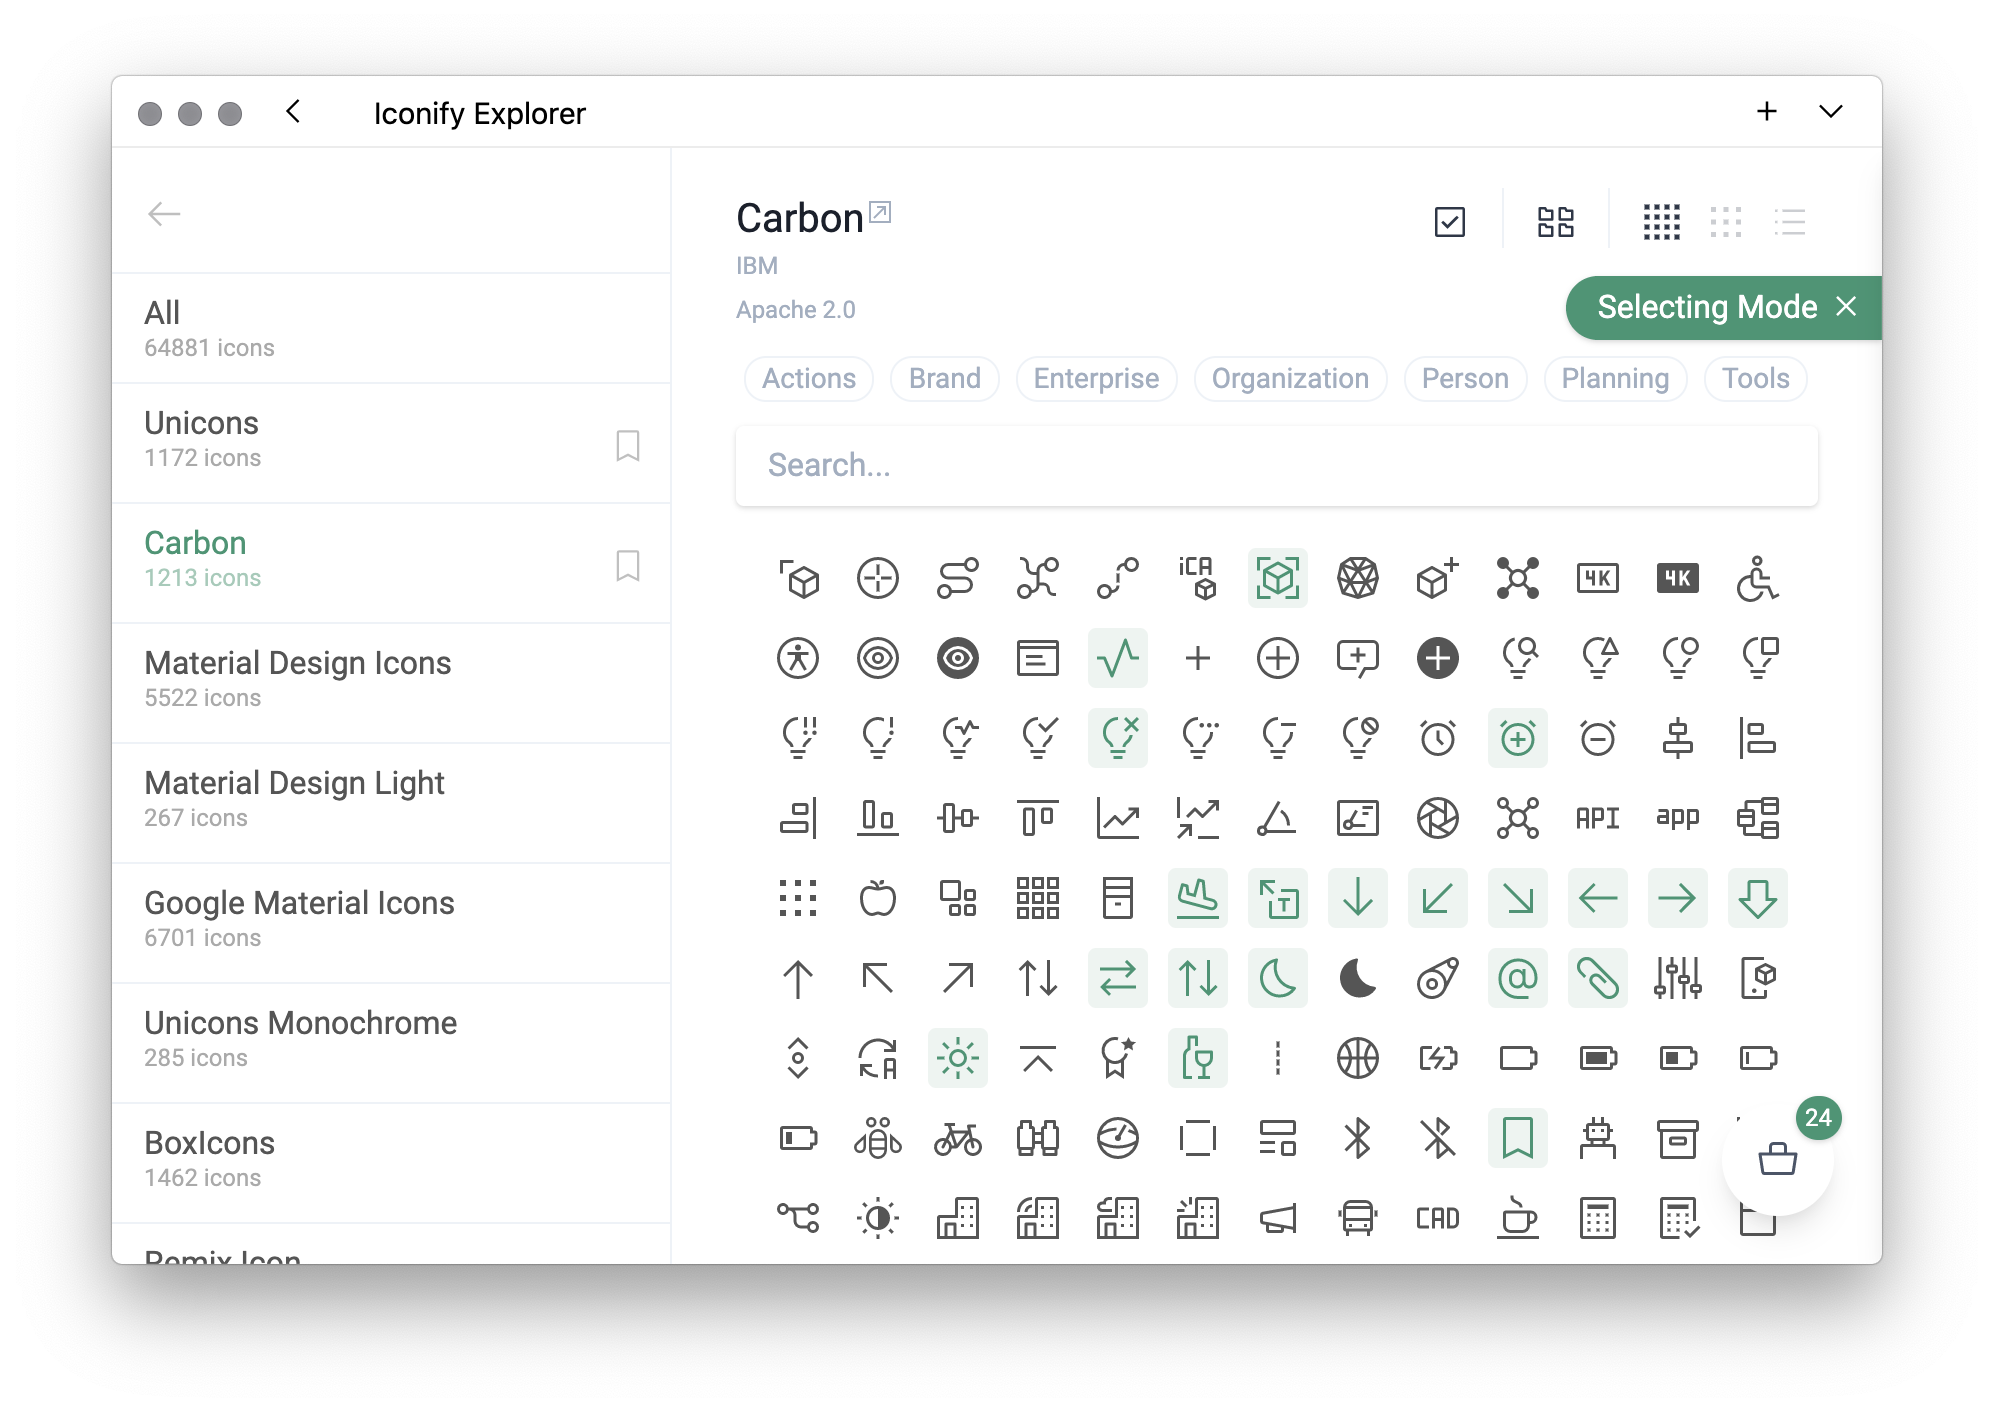
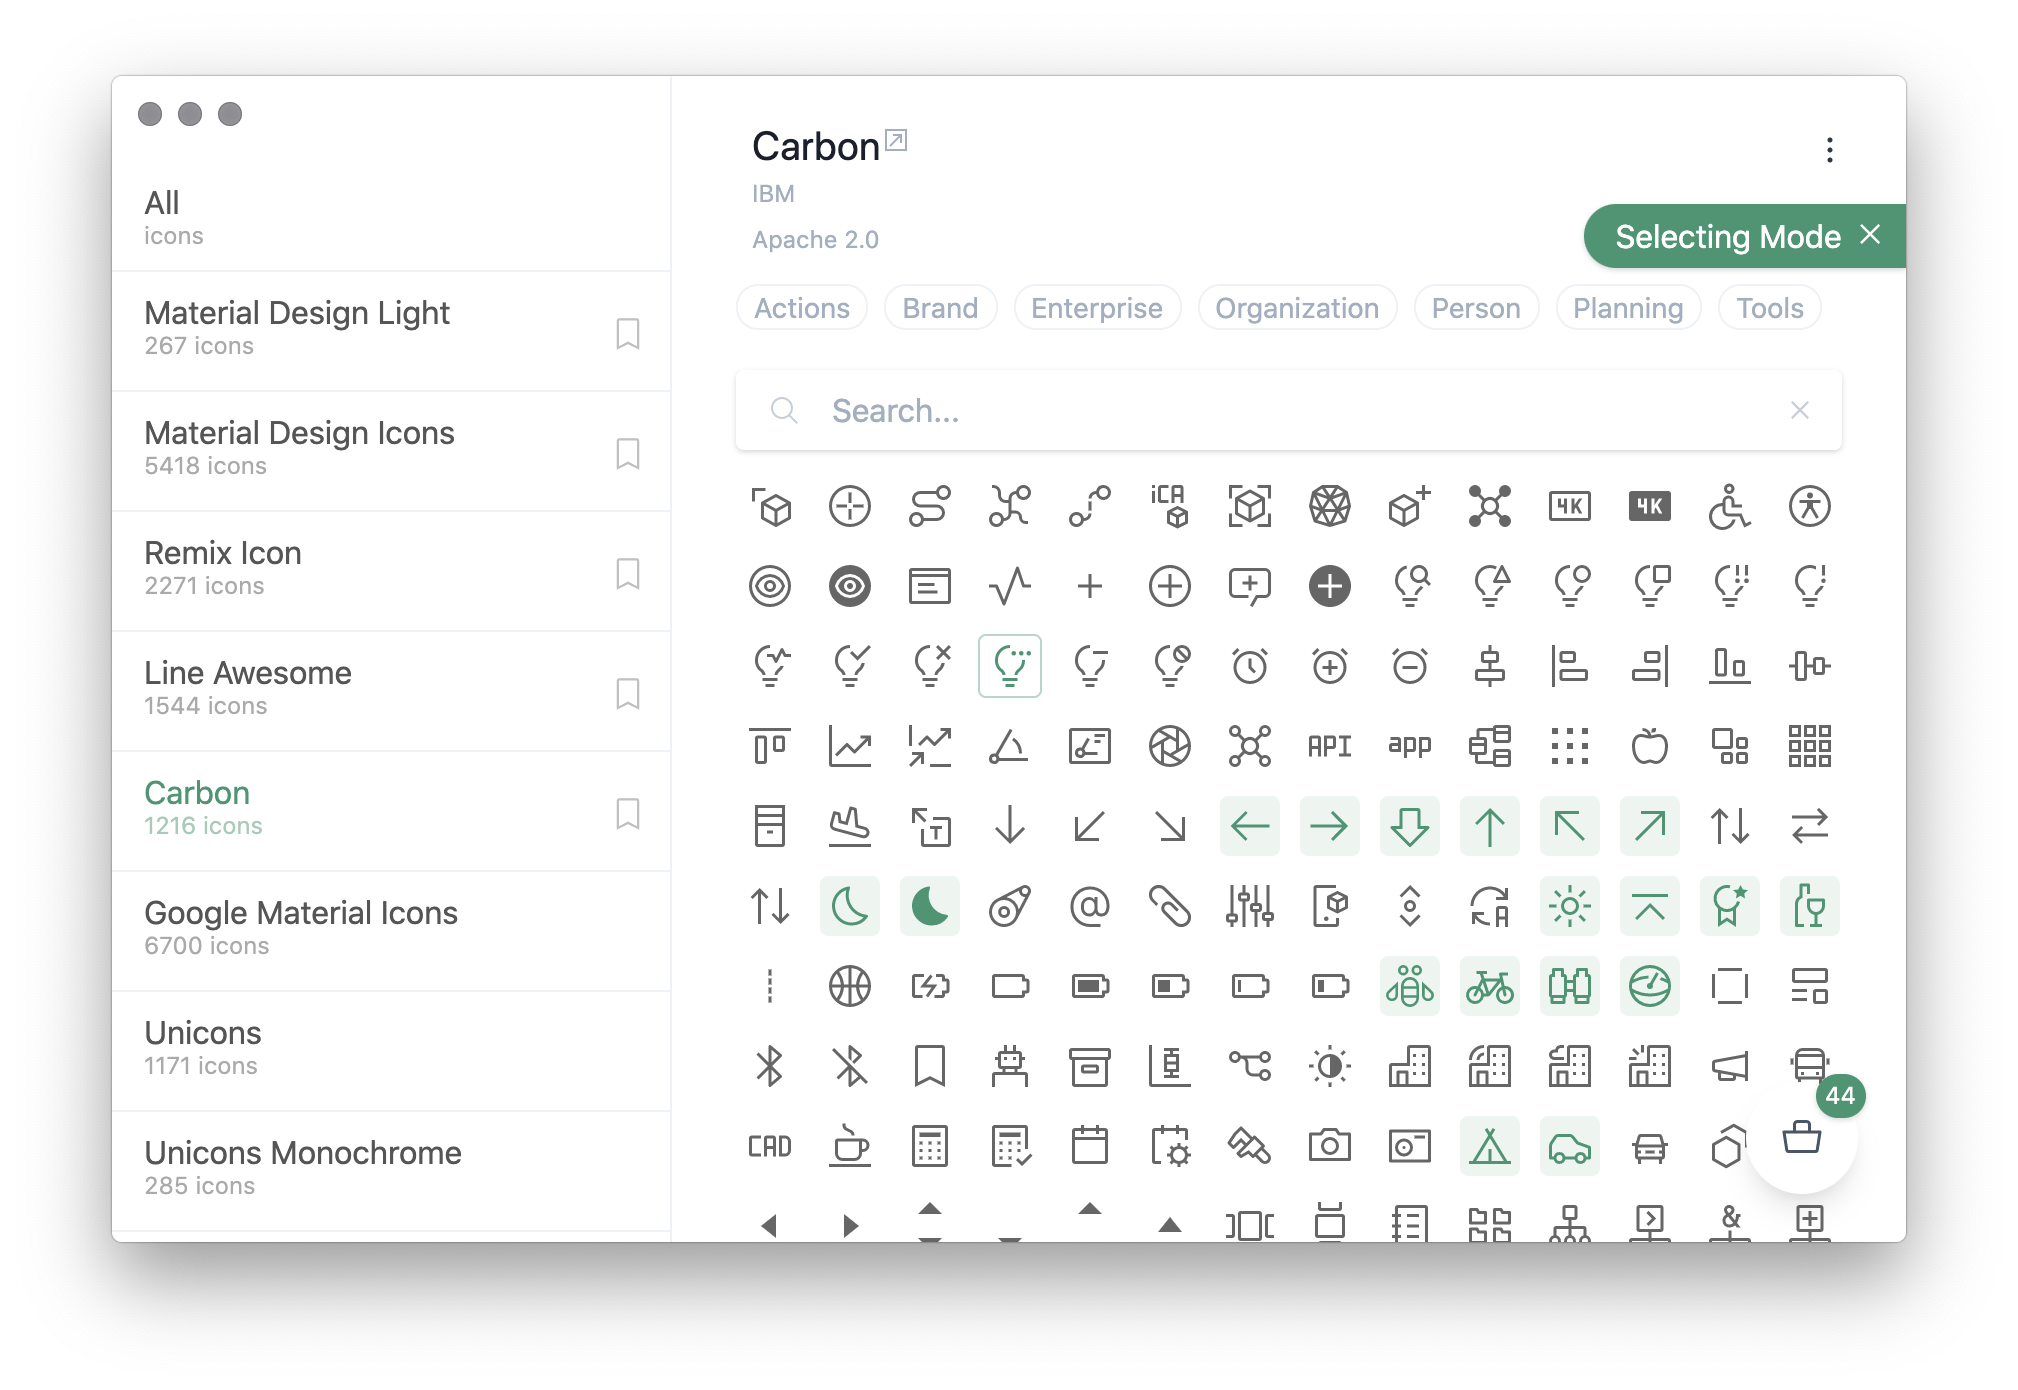
chore: renamed to Icônes

diff --git a/src/views/IconSet.vue b/src/views/IconSet.vue
@@ -65,7 +65,7 @@
         </div>
 
         <!-- Searching -->
-        <div class="mx-8 mt-2 text-gray-500 hidden md:flex shadow rounded outline-none py-1 px-4">
+        <div class="mx-8 my-2 text-gray-500 hidden md:flex shadow rounded outline-none py-1 px-4">
           <Icon icon="carbon:search" class="m-auto flex-none opacity-60" />
           <input
             ref="input"
@@ -73,7 +73,7 @@
             class="text-base outline-none py-1 px-4 flex-auto m-0"
             :placeholder="`Search...`"
           >
-          <Icon icon="carbon:close" class="m-auto text-lg -mr-1 opacity-60" @click="search = ''" />
+          <Icon v-if="search" icon="carbon:close" class="m-auto text-lg -mr-1 opacity-60" @click="search = ''" />
         </div>
 
         <!-- Icons -->

diff --git a/src/components/Navbar.vue b/src/components/Navbar.vue
@@ -19,8 +19,8 @@
       >
         <IconButton icon="carbon:logo-github" />
       </div>
-      <h1 class="text-base font-light py-2 m-auto flex-auto text-center">
-        <a href="https://iconify.design" target="_blank" class="font-bold">Iconify</a>Explorer
+      <h1 class="text-xl py-1 m-auto flex-auto text-center font-light" style="letter-spacing: 2px">
+        Icônes
       </h1>
       <a
         class="non-dragging text-xl mx-3 mr-4 my-auto flex-none"

diff --git a/src/views/Index.vue b/src/views/Index.vue
@@ -1,6 +1,8 @@
 <template>
   <WithNavbar>
-    <NavPlaceholder />
+    <NavPlaceholder class="md:border-b border-gray-200 text-center m-auto flex text-gray-500 font-light" style="height:40px">
+      <div class="m-auto">Collections</div>
+    </NavPlaceholder>
     <div class="collections-list grid">
       <div
         v-for="collection in collections"

diff --git a/index.html b/index.html
@@ -3,7 +3,7 @@
   <head>
     <meta charset="UTF-8" />
     <meta name="viewport" content="width=device-width, initial-scale=1.0">
-    <title>Iconify Explorer</title>
+    <title>Icônes</title>
     <script src="/lib/iconify.min.js"></script>
     <script src="/lib/svg-packer.js" defer></script>
     <script src="/lib/jszip.min.js" defer></script>

diff --git a/src/components/electron/SearchElectron.vue b/src/components/electron/SearchElectron.vue
@@ -1,5 +1,5 @@
 <template>
-  <Notification v-if="isElectron" class="text-right" :value="isSearchOpen">
+  <Notification v-if="isElectron" class="text-right md:hidden" :value="isSearchOpen">
     <div v-if="collection" class="flex text-gray-500">
       <Icon icon="carbon:search" class="m-auto flex-none opacity-60" />
       <input

diff --git a/src/components/Footer.vue b/src/components/Footer.vue
@@ -6,8 +6,8 @@
         class="opacity-75 hover:opacity-100"
         href="https://github.com/antfu"
         target="_blank"
-      >@antfu</a>
-      for
+      >@antfu</a>,
+      powered by
       <a
         class="opacity-75 hover:opacity-100"
         href="https://iconify.design"

diff --git a/src/components/electron/NavPlaceholder.vue b/src/components/electron/NavPlaceholder.vue
@@ -1,5 +1,7 @@
 <template>
-  <div v-if="isElectron" class="flex-none" style="height: 27px;" />
+  <div v-if="isElectron" class="flex-none" style="height: 27px;">
+    <slot />
+  </div>
 </template>
 
 <script setup lang="ts">

diff --git a/README.md b/README.md
@@ -1,9 +1,15 @@
-<h1 align="center">Iconify Explorer</h1>
+<h1 align="center">
+Icônes
+</h1>
 
-<p align="center">Explorer for <a href="https://iconify.design/" target="_blank">Iconify</a> with <b>Instant</b> searching.</p>
+<p align="center">Icon Explorer with <b>Instant</b> searching, powered by <a href="https://iconify.design/" target="_blank">Iconify</a> </p>
 
 <p align="center">
-<a href="https://iconify.antfu.me/">iconify.antfu.me</a>
+<a href="https://iconify.antfu.me/">Go to App</a>
+</p>
+
+<p align="center">
+<sub><em>Electron is comming...</em></sub>
 </p>
 
 ![](./screenshots/1.png)
@@ -26,10 +32,9 @@
 
 ### TODOs
 
-- Collection name display in icon detail
+- Electron client (Coming!)
 - Dark mode
 - Full-offline mode - pack all the icons
-- Electron client
 
 ## License
 
